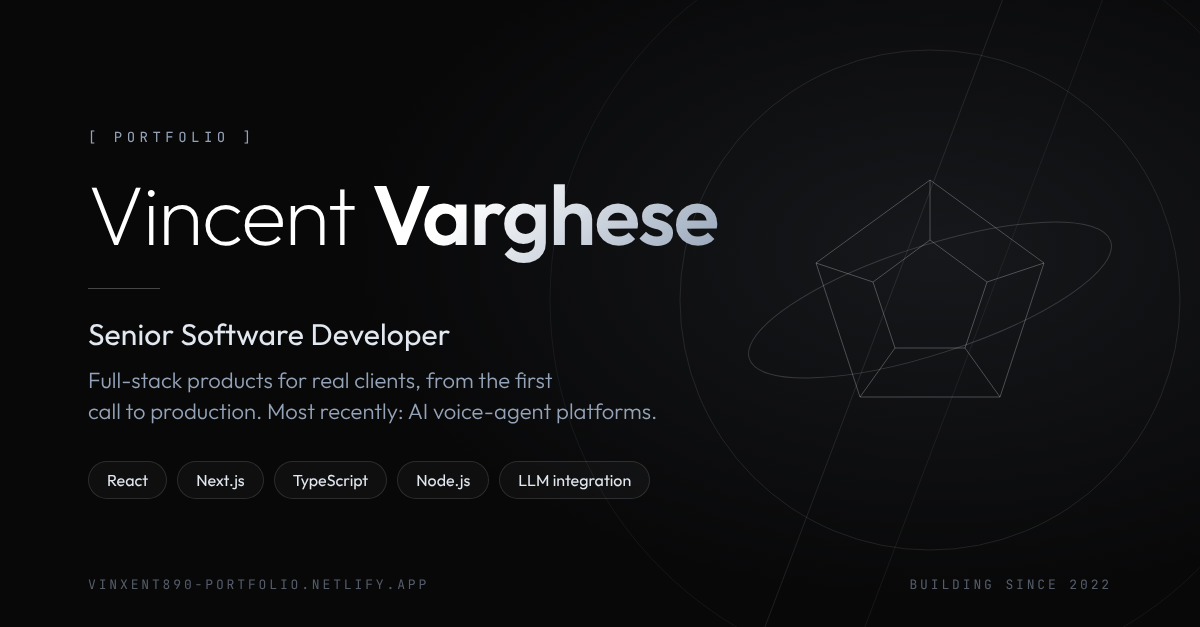
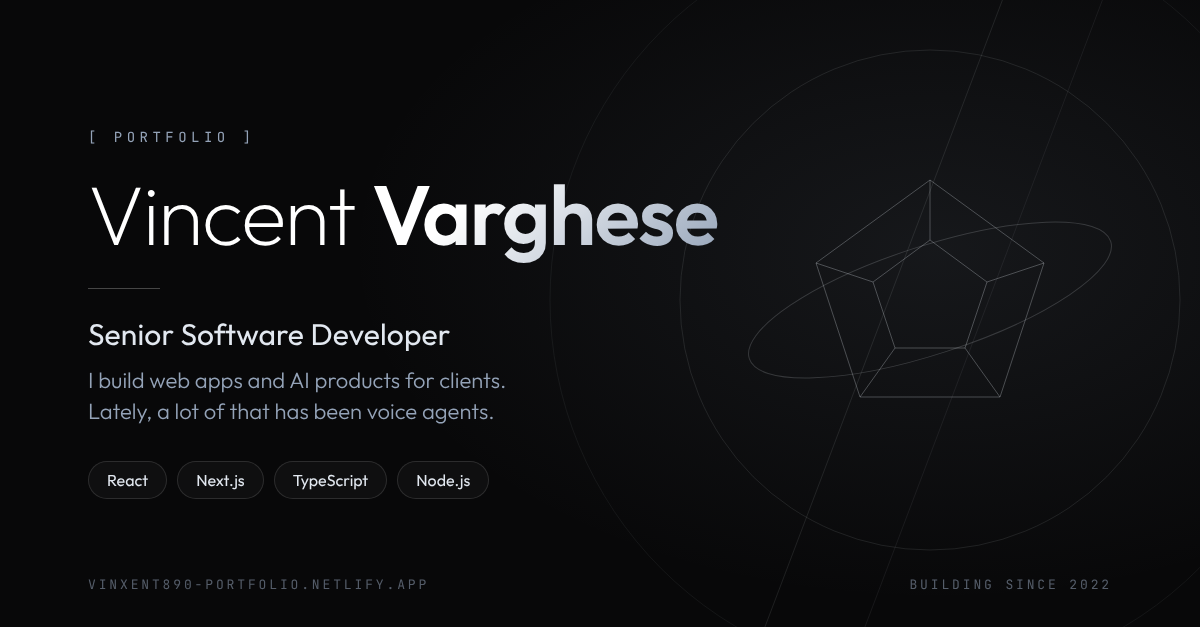
LinkedIn Update

Changed region(s): [[0.0617, 0.5758, 0.555, 0.6667], [0.4317, 0.7576, 0.5242, 0.7879]]

diff --git a/src/constants/index.js b/src/constants/index.js
@@ -1,5 +1,5 @@
-// Set to false to hide the voice-agent case study (e.g. if your employer
-// prefers you don't describe it). The nav link hides with it.
+// Set to false to hide the case study (e.g. until your employer is happy
+// for you to describe it). The nav link hides with it.
 export const showCaseStudy = true;
 
 export const navLinks = [
@@ -9,77 +9,60 @@ export const navLinks = [
   { id: "contact", title: "Contact" },
 ];
 
-// Work project: anonymised, no client code, screenshots or names.
+// Work project: no client names, code, screenshots or vendor names.
 export const caseStudy = {
   title: "AI Voice-Agent Roleplay Platform",
   context:
-    "An HR-tech platform where AI voice and video agents run live roleplay simulations, such as customer-service calls, to coach and assess candidates. I built the web app and the media pipeline; a partner team built the evaluation backend.",
+    "A platform where people practise difficult calls, like handling an upset customer, with an AI voice agent, then get a report on how they did. I built the web app and the pipeline that records each session. A partner team built the part that scores it.",
   outcome:
-    "Now contracted by a large Indian BPO and a Singapore-based insurance training institute.",
+    "Two enterprise clients have since signed on: a large Indian BPO and an insurance training institute in Singapore.",
+  note: "A work project. I've left out client names, code and screenshots.",
   flow: [
     {
-      stage: "During the session",
+      stage: "During the call",
       nodes: [
-        { name: "ElevenLabs voice agent", detail: "Real-time voice conversation via the Conversational AI SDK", mine: false },
-        { name: "React web app", detail: "Live session UI, admin dashboard, agent setup", mine: true, link: "both" },
-        { name: "Cloud Storage", detail: "Candidate video uploaded in chunks as the session runs", mine: true },
+        { name: "Voice agent", detail: "A third-party voice AI service that runs the conversation", mine: false },
+        { name: "Web app", detail: "The call screen, admin dashboard and agent setup", mine: true, link: "both" },
+        { name: "Cloud storage", detail: "The candidate's video, uploaded in small pieces during the call", mine: true },
       ],
     },
     {
-      stage: "After the session",
+      stage: "After the call",
       nodes: [
-        { name: "GCP Cloud Function", detail: "Fetches agent audio and stitches it with the video chunks", mine: true },
-        { name: "Final recording", detail: "One complete session file, back in Cloud Storage", mine: true },
-        { name: "LLM evaluation", detail: "Partner backend scores the session into a structured report", mine: false },
+        { name: "Cloud function", detail: "Pulls the agent's audio and joins it with the video", mine: true },
+        { name: "Session recording", detail: "One complete file for each session", mine: true },
+        { name: "Evaluation", detail: "The partner team's backend turns it into a report", mine: false },
       ],
     },
   ],
   problems: [
     {
-      title: "One recording from two sources",
-      text: "The candidate's video was captured in the browser, but the agent's voice lived on ElevenLabs. Uploading the video in chunks during the call and merging everything in a Cloud Function afterwards gave the evaluator one complete recording.",
+      title: "Two halves of one recording",
+      text: "The candidate's video was recorded in the browser, but the agent's voice lived with the voice service. I uploaded the video in pieces during the call and joined everything up in a cloud function afterwards, so the evaluation had one complete recording to work with.",
     },
     {
-      title: "Agents configured from the dashboard",
-      text: "Admins define the persona, the scenario and the report parameters in the UI, and the app creates and updates the matching ElevenLabs agent through its API, so new roleplays need no code.",
+      title: "New scenarios without new code",
+      text: "Admins set up the persona, the scenario and what the report should look at from the dashboard. The app then creates or updates the agent through the voice service's API.",
     },
     {
-      title: "Personas that stay in character",
-      text: "Each agent gets a role-specific knowledge base and system prompt, refined over repeated test sessions until it holds the scenario consistently.",
+      title: "Keeping agents in character",
+      text: "Each agent has its own prompt and background notes. I tuned them over a lot of test calls until they stopped drifting off script.",
     },
     {
-      title: "Shipping alongside other teams",
-      text: "Feature APIs were agreed with the partner backend team, and successive redesigns from external UI/UX agencies were rolled into the live product.",
+      title: "Working across teams",
+      text: "The scoring backend belonged to a partner team and the designs came from outside agencies, so a good part of the job was agreeing APIs and fitting redesigns into a product people were already using.",
     },
   ],
-  stack: [
-    "React",
-    "ElevenLabs Conversational AI",
-    "GCP Cloud Functions",
-    "Cloud Storage",
-    "LLM APIs",
-  ],
+  stack: ["React", "Voice AI", "Serverless functions", "Cloud storage", "LLM APIs"],
 };
 
 import { web, mobile, backend, creator } from "../assets";
 
 export const services = [
-  {
-    title: "Full-Stack Development",
-    icon: web,
-  },
-  {
-    title: "AI & LLM Integration",
-    icon: backend,
-  },
-  {
-    title: "Voice Agents & Media Pipelines",
-    icon: mobile,
-  },
-  {
-    title: "Client-Facing Delivery",
-    icon: creator,
-  },
+  { title: "Web Apps", icon: web },
+  { title: "AI Features", icon: backend },
+  { title: "Voice Agents", icon: mobile },
+  { title: "Working with Clients", icon: creator },
 ];
 
 export const technologies = [
@@ -93,9 +76,8 @@ export const technologies = [
   { name: "MongoDB" },
   { name: "Firebase" },
   { name: "Supabase" },
-  { name: "GCP" },
+  { name: "Google Cloud" },
   { name: "LLM APIs" },
-  { name: "Prompt Engineering" },
   { name: "Three.js" },
   { name: "Tailwind CSS" },
   { name: "Figma" },
@@ -107,8 +89,8 @@ export const experiences = [
     company_name: "BlitzCode Systems",
     date: "Nov 2026 - Present",
     points: [
-      "Own frontend architecture and AI integrations for client products, from requirements with clients through to delivery, working closely with the founder and partner backend teams.",
-      "Continue to own the frontend and media pipeline of the AI voice-agent roleplay platform, now contracted by an Indian BPO and a Singapore insurance training institute.",
+      "Own the frontend and AI features on client projects, from the first conversation with the client through to release.",
+      "Still look after the voice-agent platform, which two enterprise clients have since signed on to use.",
     ],
   },
   {
@@ -116,14 +98,14 @@ export const experiences = [
     company_name: "BlitzCode Systems",
     date: "Sep 2023 - Oct 2026",
     points: [
-      "AI voice-agent roleplay platform (HR-tech): built the full web frontend from scratch, covering live roleplay sessions, the admin dashboard and agent setup, integrating APIs from a partner backend team.",
-      "Integrated the ElevenLabs SDK for live voice and video sessions, and built flows that create and configure agents through its API.",
-      "Built a GCP Cloud Function that stitches chunked session video from Cloud Storage with agent audio into one recording, which feeds an LLM-based evaluation pipeline.",
-      "Designed agent personas through system prompts and role-specific knowledge bases, refined across repeated test sessions.",
-      "Built the frontend for the platform's earlier manual version: admin question banks, multi-step assessment wizards and reviewer workflows.",
-      "ESG compliance (BRSR) reporting tool: built a schema-driven form engine with an admin builder UI and complex tables (multi-level headers, merged cells, locked values), split across departments and merged into one final report.",
-      "Offline-first field registration app: built on-device storage with sync to the central database when connectivity returns.",
-      "Also added features to a parent-engagement mobile app for a European client and rebuilt the company website in Next.js.",
+      "Built the web app for an AI roleplay platform, where voice agents run practice calls with candidates and their performance is assessed afterwards.",
+      "Connected the app to a voice AI service for live calls, and let admins create and set up new agents from the dashboard.",
+      "Wrote the cloud function that joins each session's video with the agent's audio into one recording for the evaluation step.",
+      "Wrote the prompts and background material behind each agent, and tuned them over many test calls.",
+      "Built the earlier, manual version of the platform: question banks, multi-step tests and screens for human reviewers.",
+      "Built a form engine for ESG compliance reports. Admins design the forms, including tables with merged cells and nested headers, and each department fills in its own part before everything is merged into one report.",
+      "Added offline saving to a registration app used in areas with poor connectivity, so records sync once the device is back online.",
+      "Also worked on a parent app for a school-services client in Europe, and rebuilt our company website.",
     ],
   },
   {
@@ -131,17 +113,15 @@ export const experiences = [
     company_name: "BlitzCode Systems",
     date: "Jan 2023 - Jun 2023",
     points: [
-      "Migrated a client web app from React to Next.js, using pre-rendering for better SEO and load times.",
-      "Refreshed the UI for a cleaner, faster experience.",
+      "Moved a client's React site to Next.js so its pages could be pre-rendered for better SEO.",
+      "Cleaned up the UI along the way.",
     ],
   },
   {
     title: "Web Developer Intern",
     company_name: "Exposys Data Labs",
     date: "Jul 2022 - Aug 2022",
-    points: [
-      "Built and deployed a responsive multi-page website with HTML, CSS and JavaScript on Vercel and Netlify.",
-    ],
+    points: ["Built and deployed a multi-page website during a short internship."],
   },
 ];
 
@@ -151,7 +131,7 @@ export const projects = [
   {
     name: "FlowSync",
     description:
-      "A real-time Kanban workspace and client feedback portal for freelancers. Clients submit feedback through a private link with no sign-up, and tasks sync instantly as they move across the board.",
+      "A Kanban board for freelancers. Clients send feedback through a private link without needing an account, and changes show up for everyone straight away.",
     tags: [{ name: "nextjs" }, { name: "websockets" }, { name: "redis" }],
     image: feedback_portal,
     link: "https://feedback-portal-vincent.vercel.app",
@@ -159,7 +139,7 @@ export const projects = [
   {
     name: "Citizen Grievance Portal",
     description:
-      "A civic grievance platform with citizen, department and admin roles. Complaints route to the right department, with speech-to-text, multilingual input and a CMS-style admin panel for homepage content.",
+      "A place for citizens to report civic issues and follow them up. Complaints go to the right department, and people can type or speak in their own language.",
     tags: [{ name: "nextjs" }, { name: "supabase" }, { name: "i18n" }],
     image: citizen,
     link: "https://citizen-grievance-portal-vincent.vercel.app/en",

diff --git a/src/components/Tech.jsx b/src/components/Tech.jsx
@@ -73,45 +73,20 @@ const Tech = () => {
     {
       category: "Frontend",
       description:
-        "Production web apps in React and Next.js, from schema-driven forms and complex tables to live media sessions and interactive 3D.",
-      skills: [
-        "React",
-        "Next.js",
-        "TypeScript",
-        "JavaScript",
-        "Tailwind CSS",
-        "Three.js",
-        "HTML/CSS",
-        "Figma",
-      ],
+        "Most of my work. I'm comfortable with complex forms, dashboards and real-time screens.",
+      skills: ["React", "Next.js", "TypeScript", "JavaScript", "Tailwind CSS", "Three.js", "HTML/CSS", "Figma"],
     },
     {
       category: "Backend & Data",
       description:
-        "REST APIs, real-time features and the databases behind them.",
-      skills: [
-        "Node.js",
-        "Express",
-        "REST APIs",
-        "WebSockets",
-        "PostgreSQL",
-        "MongoDB",
-        "Firebase",
-        "Supabase",
-      ],
+        "Enough to build and run the APIs and databases my frontends need.",
+      skills: ["Node.js", "Express", "REST APIs", "WebSockets", "PostgreSQL", "MongoDB", "Firebase", "Supabase"],
     },
     {
       category: "AI & Cloud",
       description:
-        "Voice agents, LLM integration and the cloud functions that connect them to the product.",
-      skills: [
-        "LLM APIs (Claude, Gemini, OpenAI)",
-        "ElevenLabs Voice Agents",
-        "Prompt Engineering",
-        "GCP Cloud Functions",
-        "Cloud Storage",
-        "Git",
-      ],
+        "Voice agents, LLM APIs and the cloud functions that connect them to an app.",
+      skills: ["LLM APIs", "Voice AI", "Prompt design", "Google Cloud", "Git"],
     },
   ];
 

diff --git a/src/components/About.jsx b/src/components/About.jsx
@@ -54,13 +54,12 @@ const About = () => {
         variants={fadeIn("", "", 0.1, 1)}
         className="mt-4 text-secondary text-[15px] max-w-3xl leading-[26px] tracking-wide font-light border-l border-white/10 pl-6"
       >
-        I'm a senior software developer at a small product studio, where I've
-        taken products from the first client call to production. Recently I've
-        been building AI voice-agent products: live voice and video sessions
-        with AI personas, media pipelines on GCP, and LLM-based evaluation.
-        Before that, I built a schema-driven form engine for ESG compliance
-        reporting and offline-first tools for teams working without
-        connectivity.
+        I've spent the last three years at a small product studio, where I
+        usually get involved early: talking to the client, planning the build
+        with our founder, then writing most of the frontend myself. I've worked
+        on a training platform that uses AI voice agents, a reporting tool for
+        ESG compliance, and an app for field teams who often work without
+        internet.
       </motion.p>
 
       <div className="mt-16 flex flex-wrap gap-8 justify-center">

diff --git a/index.html b/index.html
@@ -7,7 +7,7 @@
     <title>Vincent Varghese – Senior Software Developer</title>
     <meta
       name="description"
-      content="Senior software developer building full-stack products for real clients, most recently AI voice-agent platforms. React, Next.js, TypeScript and Node.js."
+      content="Vincent Varghese, a senior software developer who builds web apps and AI products for clients."
     />
     <link rel="canonical" href="https://vinxent890-portfolio.netlify.app/" />
 
@@ -17,7 +17,7 @@
     <meta property="og:title" content="Vincent Varghese – Senior Software Developer" />
     <meta
       property="og:description"
-      content="Full-stack products for real clients, most recently AI voice-agent platforms. Experience, a case study and live projects."
+      content="Work experience, a case study, and a couple of personal projects."
     />
     <meta property="og:image" content="https://vinxent890-portfolio.netlify.app/og.png" />
     <meta property="og:image:width" content="1200" />

diff --git a/src/components/CaseStudy.jsx b/src/components/CaseStudy.jsx
@@ -54,8 +54,8 @@ const CaseStudy = () => {
         <p className="mt-4 pl-6 text-white/90 text-[14px] tracking-wide font-light">
           {caseStudy.outcome}
         </p>
-        <p className="mt-2 pl-6 text-secondary/60 text-[11px] tracking-[0.15em] uppercase">
-          Work project &middot; details anonymised &middot; no client code or screenshots
+        <p className="mt-2 pl-6 text-secondary/60 text-[12px] tracking-wide italic">
+          {caseStudy.note}
         </p>
       </motion.div>
 
@@ -71,7 +71,7 @@ const CaseStudy = () => {
               <span className="w-1.5 h-1.5 rounded-full bg-white" /> Built by me
             </span>
             <span className="flex items-center gap-2">
-              <span className="w-1.5 h-1.5 rounded-full bg-white/25" /> Third party / partner team
+              <span className="w-1.5 h-1.5 rounded-full bg-white/25" /> Third-party service or partner team
             </span>
           </div>
         </div>

diff --git a/src/components/Hero.jsx b/src/components/Hero.jsx
@@ -37,8 +37,8 @@ const Hero = () => {
             </p>
 
             <p className="text-secondary text-[15px] sm:text-[17px] leading-relaxed tracking-wide max-w-lg mb-10 font-light">
-              I build full-stack products for real clients, from the first call
-              to production. Most recently: AI voice-agent platforms.
+              I work at a small product studio, building web apps for clients.
+              Lately, a lot of that work has been AI voice agents.
             </p>
 
             <div className="flex flex-wrap gap-4 items-center">

diff --git a/src/components/Works.jsx b/src/components/Works.jsx
@@ -125,8 +125,8 @@ const Works = () => {
         className="w-full flex"
       >
         <p className="mt-6 text-secondary text-[15px] max-w-3xl leading-[26px] tracking-wide font-light border-l border-white/10 pl-6">
-          Personal projects I designed and built end to end, each with a live
-          demo and source code.
+          A couple of things I built in my own time. Both are live, and the
+          code is on GitHub.
         </p>
       </motion.div>
 
